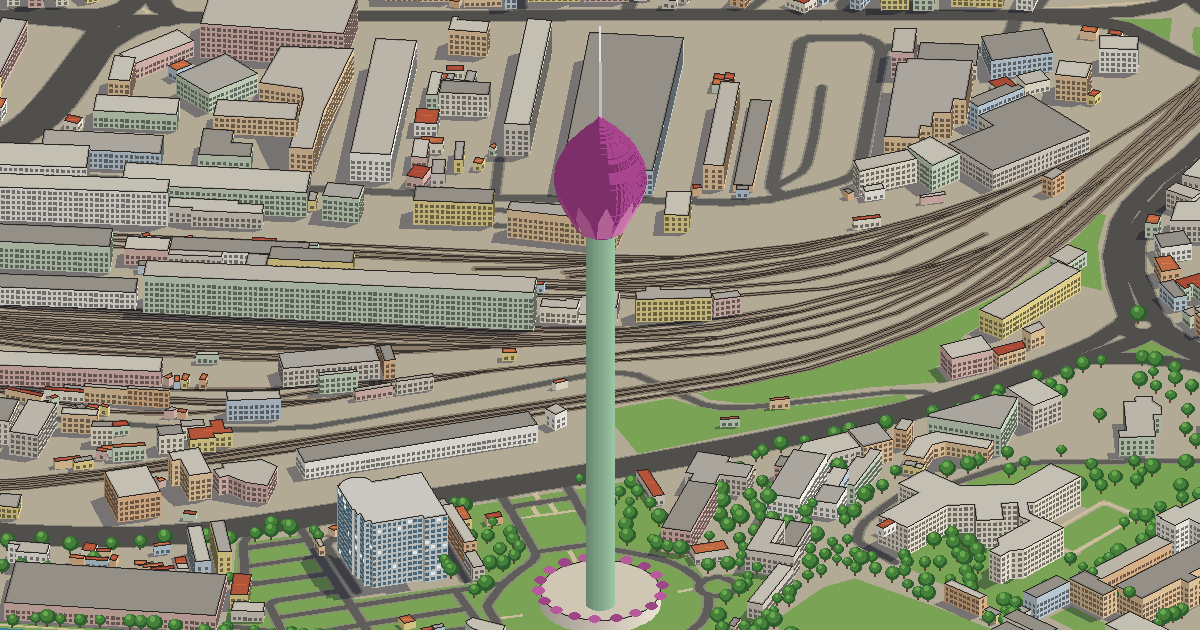
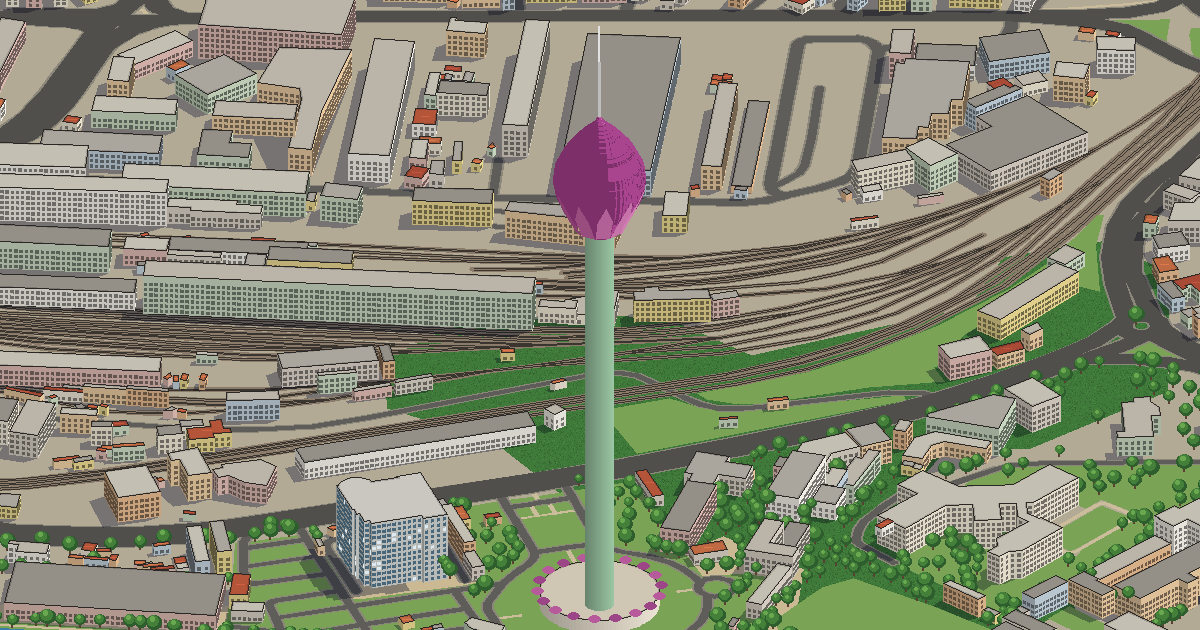
fix: convert coordinates through the base image and draw overlays with the canvas drawer
Viewport-level conversions are inaccurate with several images open, and the
WebGL drawer mis-blended transparent overlay tiles into white blocks.

diff --git a/site/components/MapViewer.tsx b/site/components/MapViewer.tsx
@@ -8,6 +8,15 @@ import { LandmarkCard, LandmarkStrip, type Landmark } from './Landmarks';
 import Search, { type Place } from './Search';
 
 const TILES = process.env.NEXT_PUBLIC_TILES_BASE ?? '/tiles';
+// With several images open, viewport-level conversions are inaccurate; convert through the base image.
+function baseItem(v: OpenSeadragon.Viewer, base: MapLayer) {
+  for (let i = 0; i < v.world.getItemCount(); i++) {
+    const it = v.world.getItemAt(i);
+    if (it.getContentSize().x === base.width) return it;
+  }
+  return v.world.getItemAt(0);
+}
+
 const DETAIL_PIXELS = 1.5; // screen pixels per pixel of the most detailed map covering a place
 
 export default function MapViewer() {
@@ -43,6 +52,7 @@ export default function MapViewer() {
           showNavigator: true,
           navigatorPosition: 'BOTTOM_RIGHT',
           navigatorSizeRatio: 0.16,
+          drawer: 'canvas', // the WebGL drawer mis-blends transparent overlay tiles
           imageSmoothingEnabled: false,
           maxZoomPixelRatio: 6,
           minZoomImageRatio: 0.9,
@@ -54,21 +64,22 @@ export default function MapViewer() {
         viewer.current = v;
         v.addOnceHandler('open', () => {
           const vp = v!.viewport;
+          const img = baseItem(v!, base);
           const at = parseAt(new URLSearchParams(location.search).get('at'));
           const start = Object.values(w.maps).find((m) => m.start)?.start;
           if (at && inBounds(base, at.lon, at.lat)) {
             const p = toImage(w.frame, base, at.lon, at.lat);
-            vp.panTo(vp.imageToViewportCoordinates(p.x, p.y), true);
+            vp.panTo(img.imageToViewportCoordinates(p.x, p.y), true);
             vp.zoomTo(at.zoom, undefined, true);
           } else if (start) {
             const p = toImage(w.frame, base, start.lon, start.lat);
-            vp.panTo(vp.imageToViewportCoordinates(p.x, p.y), true);
-            vp.zoomTo(vp.imageToViewportZoom(detailRatio(w, base, start.lon, start.lat) / 3), undefined, true);
+            vp.panTo(img.imageToViewportCoordinates(p.x, p.y), true);
+            vp.zoomTo(img.imageToViewportZoom(detailRatio(w, base, start.lon, start.lat) / 3), undefined, true);
           }
         });
         v.addHandler('animation-finish', () => {
           const vp = v!.viewport;
-          const c = vp.viewportToImageCoordinates(vp.getCenter(true));
+          const c = baseItem(v!, base).viewportToImageCoordinates(vp.getCenter(true));
           const ll = toLonLat(w.frame, base, c.x, c.y);
           history.replaceState(null, '', `?at=${formatAt(ll.lat, ll.lon, vp.getZoom(true))}`);
         });
@@ -86,9 +97,10 @@ export default function MapViewer() {
     const base = baseLayer(world);
     const vp = v.viewport;
     const p = toImage(world.frame, base, lon, lat);
-    const point = vp.imageToViewportCoordinates(p.x, p.y);
+    const img = baseItem(v, base);
+    const point = img.imageToViewportCoordinates(p.x, p.y);
     vp.panTo(point);
-    vp.zoomTo(vp.imageToViewportZoom(detailRatio(world, base, lon, lat)));
+    vp.zoomTo(img.imageToViewportZoom(detailRatio(world, base, lon, lat)));
     if (pin.current) v.removeOverlay(pin.current);
     const div = document.createElement('div');
     div.className = 'pin';
